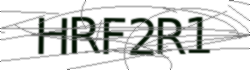
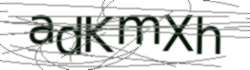
until login unsucced then send new req to server to get captcha

diff --git a/test_adminLogin.py b/test_adminLogin.py
@@ -6,12 +6,11 @@ import pytesseract
 from io import BytesIO
 import cv2
 import numpy as np
-
+import time
 
 @pytest.fixture(scope='module')
 def api_url():
     return os.getenv("API_URL")
-
 
 def pre_process_image(image_data):
     # Create a directory for saving images
@@ -49,7 +48,6 @@ def pre_process_image(image_data):
     # Return the processed image
     return morphed
 
-
 def test_get_captcha_and_login(api_url):
     # Specify the path to Tesseract executable
     pytesseract.pytesseract.tesseract_cmd = r'C:\Program Files\Tesseract-OCR\tesseract.exe'  # Update path if necessary
@@ -66,39 +64,68 @@ def test_get_captcha_and_login(api_url):
     assert captcha_key is not None, "Captcha key is missing in the response"
     print('Captcha_Key is:', captcha_key)
 
-    # Step 2: Use the captcha_key to request the captcha image
-    image_response = requests.get(f"{api_url}/captcha/image/{captcha_key}/")
-    assert image_response.status_code == 200, "Failed to retrieve captcha image"
-
-    # Step 3: Pre-process the image to improve OCR accuracy
-    image = Image.open(BytesIO(image_response.content))
-    pre_processed_image = pre_process_image(image)
-
-    # Convert pre-processed image back to a PIL image for Tesseract
-    processed_image = Image.fromarray(pre_processed_image)
-
-    # Step 4: Use Tesseract to extract text with character whitelist to avoid unwanted characters
-    custom_config = r'--psm 6 -c tessedit_char_whitelist=abcdefghijklmnopqrstuvwxyzABCDEFGHIJKLMNOPQRSTUVWXYZ0123456789'
-    raw_captcha_response = pytesseract.image_to_string(processed_image, config=custom_config).strip()
-    print('Raw Captcha Response is:', raw_captcha_response)
-
-    if not raw_captcha_response:
-        raise ValueError("Tesseract returned an empty response. Check the captcha image and Tesseract installation.")
-
-    # Convert to lowercase for processing if needed
-    captcha_response = raw_captcha_response.lower()
-    print('Processed Captcha Response from upperCase to lowerCase is:', captcha_response)
-
     #####################################################################
     # Step 5: Perform login using username, password, captcha_key, and captcha_response
     login_url = f"{api_url}/user/login/"
-    payload = {
-        'username': 'admin',
-        'password': 'adminadmin',
-        'captcha_key': captcha_key,
-        'captcha_response': captcha_response
-    }
 
-    login_response = requests.post(login_url, json=payload)
-    assert login_response.status_code == 200, "Login failed. Check username, password, and captcha."
-    print('Login Response:', login_response.json())
+    # Initialize variables
+    max_retries = 5  # Max number of retries
+    retry_count = 0
+    successful_login = False
+
+    # Retry loop
+    while retry_count < max_retries and not successful_login:
+        # Step 2: Use the captcha_key to request the captcha image
+        image_response = requests.get(f"{api_url}/captcha/image/{captcha_key}/")
+        assert image_response.status_code == 200, "Failed to retrieve captcha image"
+
+        # Step 3: Pre-process the image to improve OCR accuracy
+        image = Image.open(BytesIO(image_response.content))
+        pre_processed_image = pre_process_image(image)
+
+        # Convert pre-processed image back to a PIL image for Tesseract
+        processed_image = Image.fromarray(pre_processed_image)
+
+        # Step 4: Use Tesseract to extract text with character whitelist to avoid unwanted characters
+        custom_config = r'--psm 6 -c tessedit_char_whitelist=abcdefghijklmnopqrstuvwxyzABCDEFGHIJKLMNOPQRSTUVWXYZ0123456789'
+        raw_captcha_response = pytesseract.image_to_string(processed_image, config=custom_config).strip()
+        print('Raw Captcha Response is:', raw_captcha_response)
+
+        if not raw_captcha_response:
+            raise ValueError("Tesseract returned an empty response. Check the captcha image and Tesseract installation.")
+
+        # Convert to lowercase for processing if needed
+        captcha_response = raw_captcha_response.lower()
+        print('Processed Captcha Response from upperCase to lowerCase is:', captcha_response)
+
+        payload = {
+            'username': 'admin',
+            'password': 'adminadmin',
+            'captcha_key': captcha_key,
+            'captcha_response': captcha_response
+        }
+
+        login_response = requests.post(login_url, json=payload)
+
+        if login_response.status_code == 200:
+            print('Login Response:', login_response.json())
+            successful_login = True  # Exit the loop if login is successful
+        else:
+            print(f"Login attempt {retry_count + 1} failed. Requesting new captcha...")
+            # Request a new captcha if login fails
+            response = requests.get(f"{api_url}/user/captcha/")
+
+            # Ensure the response status is 200
+            assert response.status_code == 200, "Failed to retrieve new captcha"
+
+            # Parse the new captcha_key
+            response_data = response.json()
+            captcha_key = response_data.get('data', {}).get('captcha_key')
+            assert captcha_key is not None, "Captcha key is missing in the new response"
+            print('New Captcha_Key is:', captcha_key)
+
+            retry_count += 1
+            time.sleep(2)  # Sleep for a short duration before retrying
+
+    # Ensure login was successful after retries
+    assert successful_login, "Login failed after multiple attempts."
